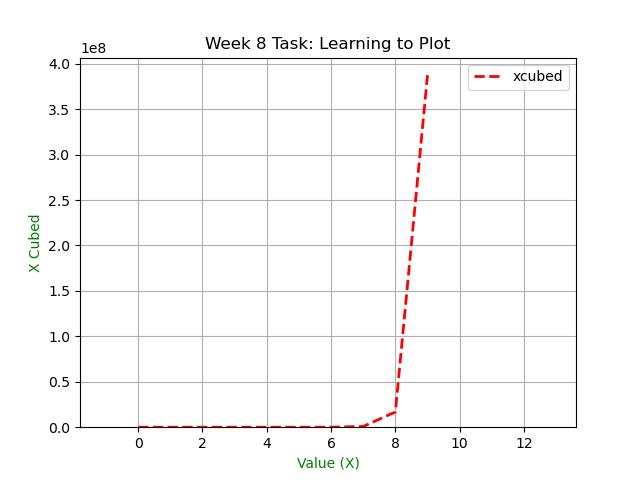
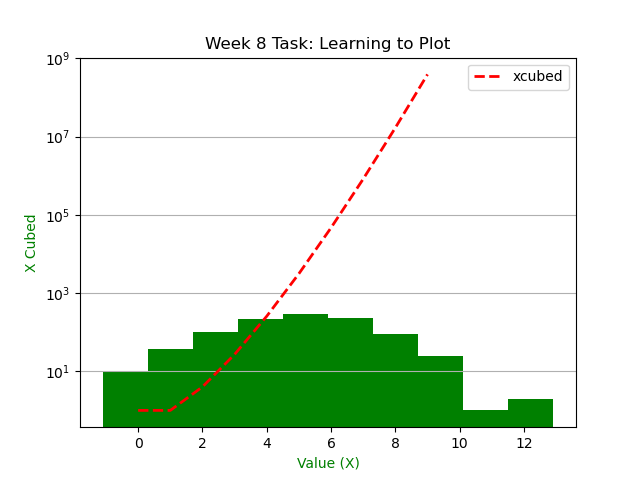
updated

diff --git a/plottask.py b/plottask.py
@@ -16,18 +16,22 @@ normaldist = np.random.normal(loc=5, scale = 2, size = 1000)
 
 #print(normaldist) # to see that it works before plotting
 
+
+
+plt.hist(normaldist, color = 'g') # display histogram, green colour
+
+
 xpoints = np.array(range(0,10)) # range of values on the x axis
 ypoints = xpoints**xpoints # cube of x
 
-plt.hist(normaldist, color = 'g') # display histogram, green colour
 plt.plot(xpoints, ypoints, label = "xcubed", color = "red", ls = "dashed", lw ="2") 
 
 plt.title("Week 8 Task: Learning to Plot", color = 'black') # adds title in black
 plt. legend() #shows legend box
-plt.grid() # shows grid line
+plt.grid(axis = 'y') # shows grid line
 plt.xlabel ("Value (X)", color ="green")
 plt.ylabel ("X Cubed", color ="green")
-
+plt.yscale("log") # changed the y axis scale to log as default is linear 
 plt.savefig('histplot.png') # Save to PNG file
 
 plt.show() # displays plots

diff --git a/README.md b/README.md
@@ -234,28 +234,27 @@ Numpy is a general-purpose array-processing package. It provides a high-performa
 
 Part 1: Histogram  
 
-Firstly to draw a plt.hist of normal distribution i will use:  
+Firstly to draw a plt.hist of a normal distribution I used the random.normal() method for finding the normal distribution of the data. It has three parameters:  
+ 1. loc – (average/mean) where the top of the bell is located. 
+ 2. scale – (standard deviation) how uniform you want the graph to be distributed.
+ 3. size – Shape of the returning Array
 
-1. random.normal() method for finding the normal distribution of the data. It has three parameters:  
-2. np.random.seed(1) to generate the same random numbers each time it is run - easier to debug
-3. loc – (average/mean) where the top of the bell is located.
-4. Scale – (standard deviation) how uniform you want the graph to be distributed.
-5. size – Shape of the returning Array
+The I used np.random.seed(1) to generate the same random numbers each time it is run - easier to debug
 
- so i created the following program   
-    normaldist = np.random.normal(loc=5, scale = 2, size = 1000)  
-This will generate 1000 random values around the mean of 5 with an SD of 2  
+I created the program normaldist that when called will generate 1000 random values around the mean of 5 with an SD of 2  
 
 I used print(normaldist) to see that it works before plotting before using the following code to plot the histogram and style it.  
 
 
 
-Part 2:
+Part 2: Line plot 
+The function h(x) = xcubed
+I set the x point variable to be an value created in an array from 0 to 10. The y point was the x value cubed. 
+Then I plotted x points versus y points and styled the line plot.
 
+Problems: 
 
-
-
-
+I could run the histogram plot and the line plt sepatately and see them clearly but when I ran plt.hist and plt.plot in the same program only the line plot would be visible.  I assumed this was due to the y scale so I changed it from the default linear scale to the log scale.  That way I can see both plots on the one graph.
 
 ### References:  
  
